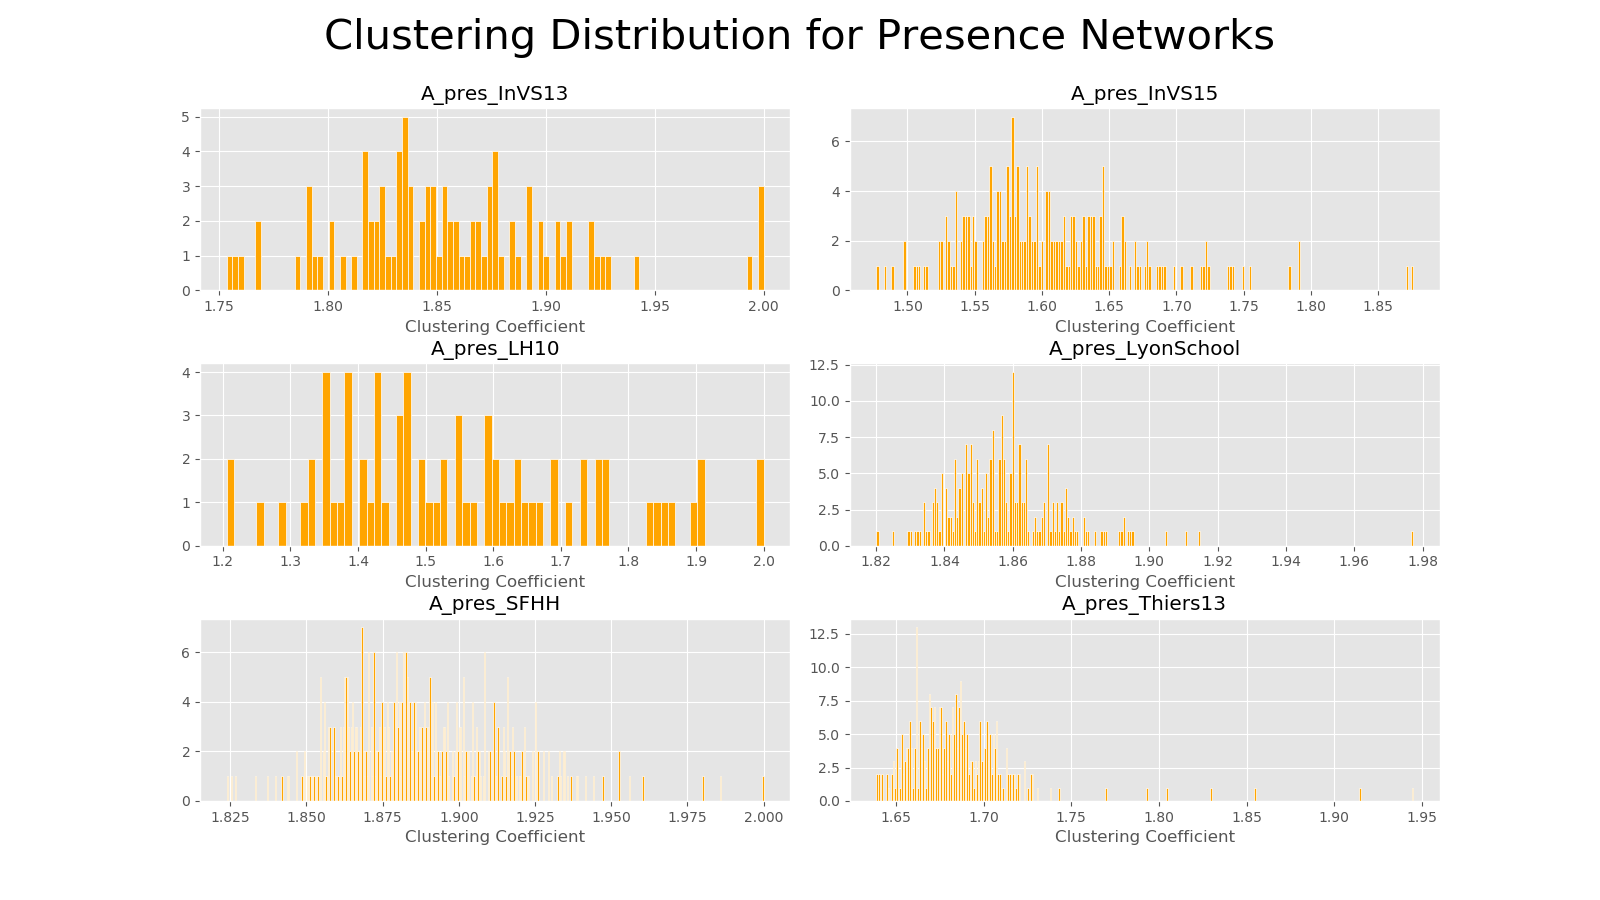
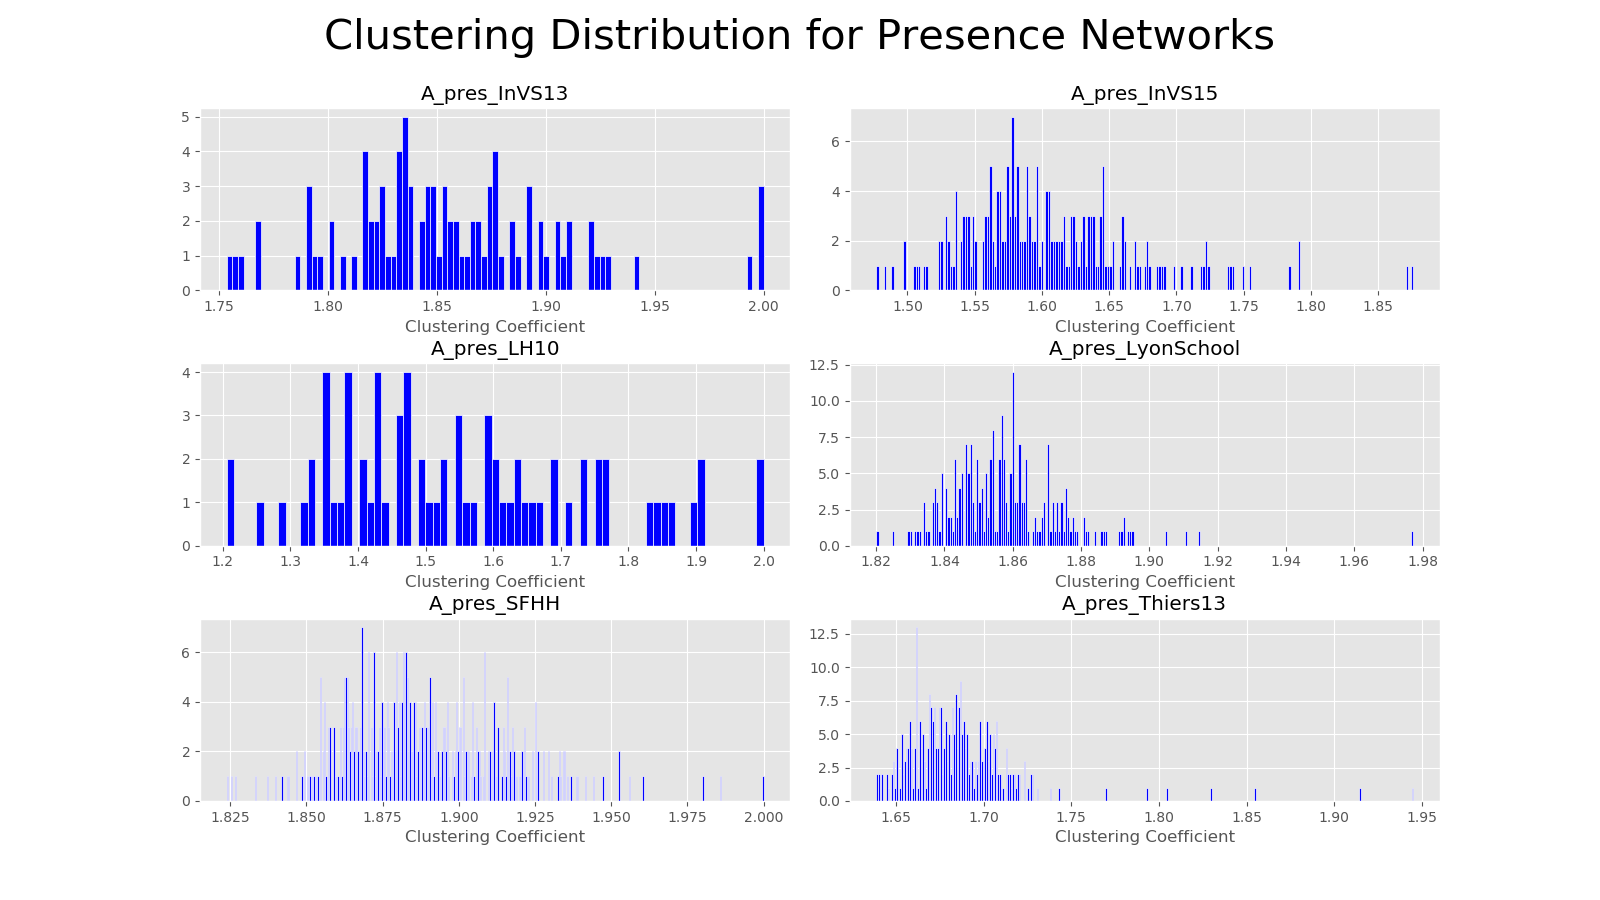
new figure colors

diff --git a/main.py b/main.py
@@ -8,7 +8,7 @@ pres_filenames = ['A_pres_InVS13', 'A_pres_InVS15', 'A_pres_LH10', 'A_pres_LyonS
 cont_filenames = ['A_lnVS13', 'A_lnVS15', 'A_LH10', 'A_LyonSchool', 'A_SFHH', 'A_Thiers13']
 
 # Choosing Contact vs. Presence Network
-contact = True
+contact = False
 
 # Defining variables for type of network
 if contact == True:
@@ -16,12 +16,13 @@ if contact == True:
 	folder = 'contact_data'
 	title = 'Contact Networks'
 	color = 'red'
+	color2 = 'orange'
 else:
 	filenames = pres_filenames
 	folder = 'presence_data'
 	title = 'Presence Networks'
 	color = 'teal'
-
+	color2 = 'blue'
 # ========================================================
 class NetworkStat():
 	def __init__(self, A):
@@ -100,7 +101,7 @@ def main():
 
 		# Plotting Clustering Histograms
 		ax2 = fig2.add_subplot(3, 2, i + 1)
-		ax2.hist(cc_vec, bins=net.n, ec='white', color='orange')
+		ax2.hist(cc_vec, bins=net.n, ec='white', color=color2)
 		ax2.set_title(name)
 		ax2.set_xlabel('Clustering Coefficient')
 
